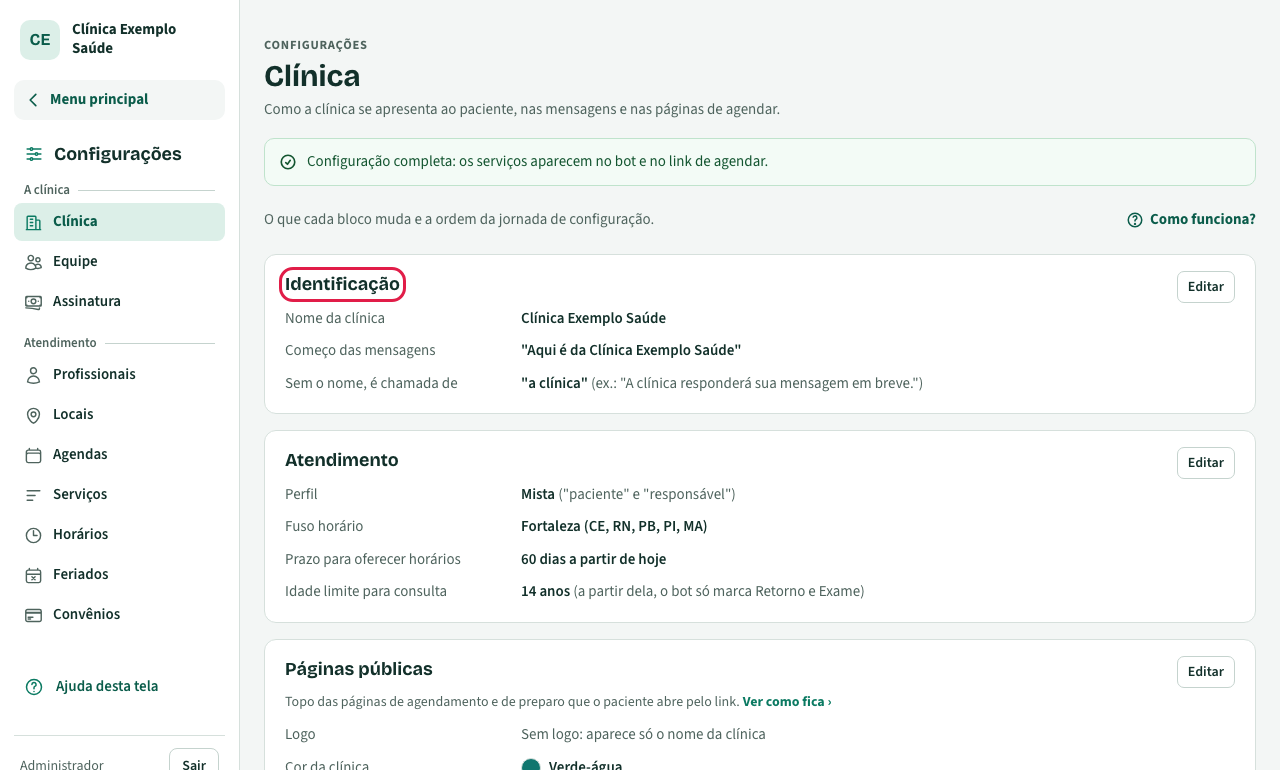
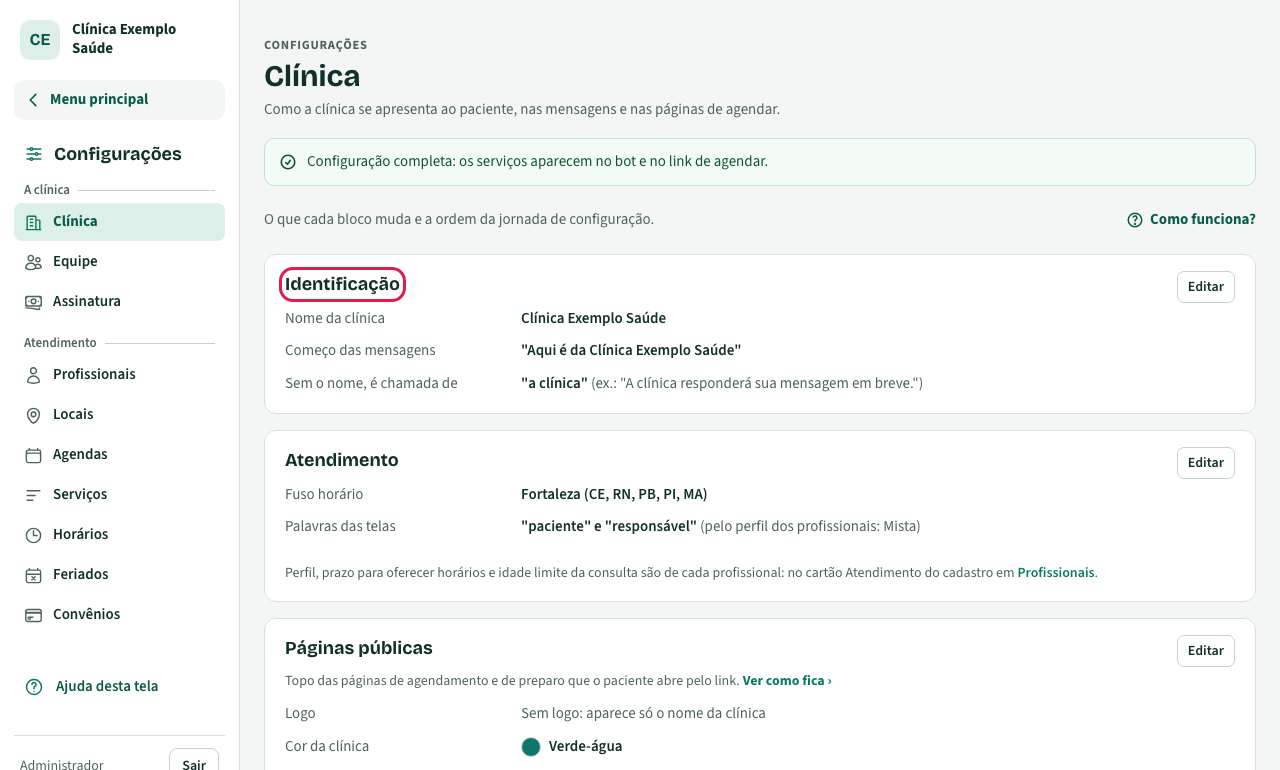
Capturas da ajuda refeitas: config-clinica, config-horarios, config-servicos e config-mensagens
Fila de capturas-pendentes.md esvaziada. Seed: boas-vindas próprias com {nome}.

diff --git a/docs/capturas-pendentes.md b/docs/capturas-pendentes.md
@@ -9,7 +9,4 @@ a captura e o motivo, avisar o cliente no fim da etapa e esperar a autorização
 
 ## Pendentes
 
-- `config-horarios` — escolha da agenda virou "De qual profissional?" (busca) e a barra "Profissional: … · Trocar de profissional" (08/11/2026)
-- `config-servicos` — especialidade em negrito na busca de profissional (08/11/2026)
-- `config-mensagens` — prévia das boas-vindas com o nome ("Olá, Maria! 👋…") e o campo {nome} (08/11/2026)
-- `config-clinica` — cartão Atendimento ficou só com o fuso e as palavras das telas; perfil, prazo e idade limite foram para o profissional (08/11/2026)
+(nenhuma)
